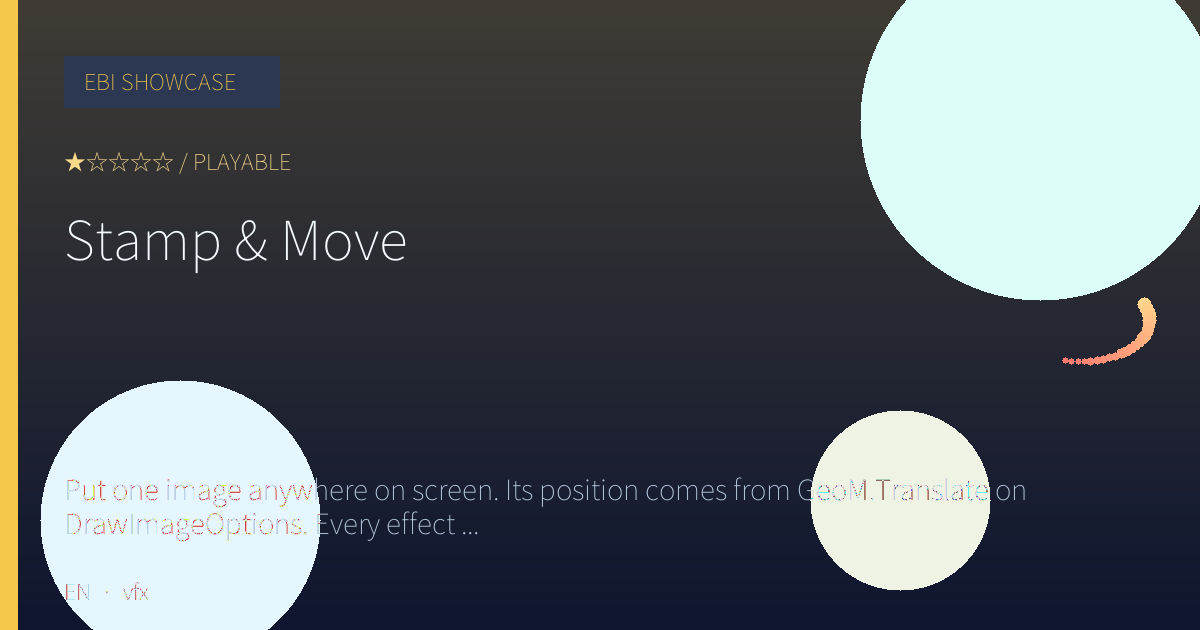
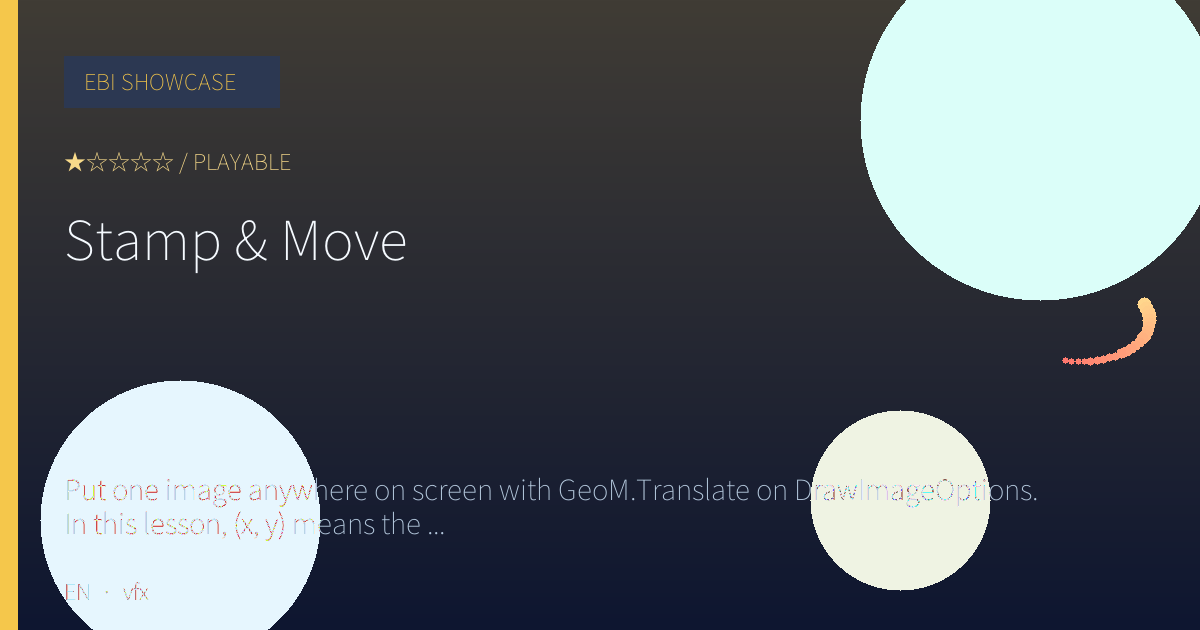
reflect feedback

Changed region(s): [[0.4008, 0.754, 0.8633, 0.8143], [0.0617, 0.8143, 0.37, 0.8746]]

diff --git a/web/en/tracks/visual-effects/vfx-particles/index.html b/web/en/tracks/visual-effects/vfx-particles/index.html
@@ -118,12 +118,17 @@
         </div>
         <pre><code>type particle struct{ x, y, vx, vy, life float64 }
 
-for i := range ps { // Update
-    ps[i].x += ps[i].vx
-    ps[i].y += ps[i].vy
-    ps[i].vy += gravity
-    ps[i].life--
-}</code></pre>
+next := ps[:0] // 生き残りを同じ配列へ詰め直す
+for _, p := range ps { // Update
+    p.x += p.vx
+    p.y += p.vy
+    p.vy += gravity
+    p.life--
+    if p.life &gt; 0 {
+        next = append(next, p)
+    }
+}
+ps = next // 寿命0の粒はここで退場</code></pre>
       </div>
 
       <div class="why-grid">

diff --git a/web/ja/tracks/visual-effects/vfx-particles/index.html b/web/ja/tracks/visual-effects/vfx-particles/index.html
@@ -118,12 +118,17 @@
         </div>
         <pre><code>type particle struct{ x, y, vx, vy, life float64 }
 
-for i := range ps { // Update
-    ps[i].x += ps[i].vx
-    ps[i].y += ps[i].vy
-    ps[i].vy += gravity
-    ps[i].life--
-}</code></pre>
+next := ps[:0] // 生き残りを同じ配列へ詰め直す
+for _, p := range ps { // Update
+    p.x += p.vx
+    p.y += p.vy
+    p.vy += gravity
+    p.life--
+    if p.life &gt; 0 {
+        next = append(next, p)
+    }
+}
+ps = next // 寿命0の粒はここで退場</code></pre>
       </div>
 
       <div class="why-grid">

diff --git a/web/en/tracks/visual-effects/vfx-stamp/index.html b/web/en/tracks/visual-effects/vfx-stamp/index.html
@@ -3,14 +3,14 @@
 <head>
   <meta charset="utf-8">
   <meta name="viewport" content="width=device-width,initial-scale=1,viewport-fit=cover">
-  <meta name="description" content="Put one image anywhere on screen. Its position comes from GeoM.Translate on DrawImageOptions. Every effect starts from this act of placing.">
+  <meta name="description" content="Put one image anywhere on screen with GeoM.Translate on DrawImageOptions. In this lesson, (x, y) means the image's top-left corner. The next">
   <title>Ebi Showcase – Stamp &amp; Move</title>
   <link rel="canonical" href="https://kumagi.github.io/EbiShowcase/en/tracks/visual-effects/vfx-stamp/">
     <!-- ogp:start -->
     <meta property="og:site_name" content="Ebi Showcase">
     <meta property="og:type" content="website">
     <meta property="og:title" content="Ebi Showcase – Stamp &amp; Move">
-    <meta property="og:description" content="Put one image anywhere on screen. Its position comes from GeoM.Translate on DrawImageOptions. Every effect starts from this act of placing.">
+    <meta property="og:description" content="Put one image anywhere on screen with GeoM.Translate on DrawImageOptions. In this lesson, (x, y) means the image's top-left corner. The next">
     <meta property="og:url" content="https://kumagi.github.io/EbiShowcase/en/tracks/visual-effects/vfx-stamp/">
     <meta property="og:image" content="https://kumagi.github.io/EbiShowcase/assets/og/en--tracks--visual-effects--vfx-stamp.png?v=20260713-font1">
     <meta property="og:image:width" content="1200">
@@ -20,7 +20,7 @@
     <meta property="og:locale:alternate" content="ja_JP">
     <meta name="twitter:card" content="summary_large_image">
     <meta name="twitter:title" content="Ebi Showcase – Stamp &amp; Move">
-    <meta name="twitter:description" content="Put one image anywhere on screen. Its position comes from GeoM.Translate on DrawImageOptions. Every effect starts from this act of placing.">
+    <meta name="twitter:description" content="Put one image anywhere on screen with GeoM.Translate on DrawImageOptions. In this lesson, (x, y) means the image's top-left corner. The next">
     <meta name="twitter:image" content="https://kumagi.github.io/EbiShowcase/assets/og/en--tracks--visual-effects--vfx-stamp.png?v=20260713-font1">
     <meta name="twitter:image:alt" content="Stamp &amp; Move">
     <!-- ogp:end -->
@@ -41,7 +41,7 @@
     <section class="overview-hero">
       <p class="eyebrow">★☆☆☆☆ / PLAYABLE</p>
       <h1>Stamp & Move</h1>
-      <p>Put one image anywhere on screen. Its position comes from GeoM.Translate on DrawImageOptions. Every effect starts from this act of placing.</p>
+      <p>Put one image anywhere on screen with GeoM.Translate on DrawImageOptions. In this lesson, (x, y) means the image's top-left corner. The next lesson shows how to place its center instead.</p>
       <div class="overview-concept"><small>What you learn here</small><strong>GeoM.Translate</strong></div>
     </section>
 
@@ -51,7 +51,7 @@
     <section class="play lesson-play" id="play">
       <div class="section-head">
         <div><p class="eyebrow">PLAYABLE / LIVE GO + MOUSE</p><h2>Place it where you tap</h2></div>
-        <p>Tap the board and the image jumps to that spot. The (x, y) you see is exactly what you pass to GeoM.Translate.</p>
+        <p>Tap the board and the image's top-left jumps to that coordinate. The apparent down-right offset is intentional, not a bug. Pass (x, y) directly here; the next lesson centers the image.</p>
       </div>
       <div class="game-shell">
         <div class="game-top"><span>● LIVE / GO + WASM</span><span>STEP 01</span></div>
@@ -101,7 +101,7 @@
         <div class="lab-copy">
           <p class="eyebrow">TRY IT / TRANSLATE</p>
           <h3 id="lab-title-vfx-stamp">Place it where you tap</h3>
-          <p>Tap the board and the image jumps to that spot. The (x, y) you see is exactly what you pass to GeoM.Translate.</p>
+          <p>Tap the board and the image's top-left jumps to that coordinate. The apparent down-right offset is intentional, not a bug. Pass (x, y) directly here; the next lesson centers the image.</p>
           <div class="lab-controls"><button type="button" class="lab-button lab-button-quiet" data-lab-reset>Reset</button></div>
         </div>
         <div class="lab-visual">

diff --git a/web/ja/tracks/visual-effects/vfx-stamp/index.html b/web/ja/tracks/visual-effects/vfx-stamp/index.html
@@ -3,14 +3,14 @@
 <head>
   <meta charset="utf-8">
   <meta name="viewport" content="width=device-width,initial-scale=1,viewport-fit=cover">
-  <meta name="description" content="画像を1枚、画面の好きな場所に置きます。位置を決めるのは DrawImageOptions の GeoM.Translate。エフェクトはすべて、この「置く」から始まります。 遊べるデモを動かし、Goで1つルールを足して確かめながら、自分のEbitengineゲームへ応用します。">
+  <meta name="description" content="画像を1枚、画面の好きな場所に置きます。位置を決めるのは DrawImageOptions の GeoM.Translate。この章の (x, y) は画像の左上です。中心に置く方法は次の章で学びます。 遊べるデモを動かし、Goで1つルールを足して確かめながら、自分のEbitengineゲームへ応用します。">
   <title>Ebi Showcase – スタンプと移動</title>
   <link rel="canonical" href="https://kumagi.github.io/EbiShowcase/ja/tracks/visual-effects/vfx-stamp/">
     <!-- ogp:start -->
     <meta property="og:site_name" content="Ebi Showcase">
     <meta property="og:type" content="website">
     <meta property="og:title" content="Ebi Showcase – スタンプと移動">
-    <meta property="og:description" content="画像を1枚、画面の好きな場所に置きます。位置を決めるのは DrawImageOptions の GeoM.Translate。エフェクトはすべて、この「置く」から始まります。 遊べるデモを動かし、Goで1つルールを足して確かめながら、自分のEbitengineゲームへ応用します。">
+    <meta property="og:description" content="画像を1枚、画面の好きな場所に置きます。位置を決めるのは DrawImageOptions の GeoM.Translate。この章の (x, y) は画像の左上です。中心に置く方法は次の章で学びます。 遊べるデモを動かし、Goで1つルールを足して確かめながら、自分のEbitengineゲームへ応用します。">
     <meta property="og:url" content="https://kumagi.github.io/EbiShowcase/ja/tracks/visual-effects/vfx-stamp/">
     <meta property="og:image" content="https://kumagi.github.io/EbiShowcase/assets/og/ja--tracks--visual-effects--vfx-stamp.png?v=20260713-font1">
     <meta property="og:image:width" content="1200">
@@ -20,7 +20,7 @@
     <meta property="og:locale:alternate" content="en_US">
     <meta name="twitter:card" content="summary_large_image">
     <meta name="twitter:title" content="Ebi Showcase – スタンプと移動">
-    <meta name="twitter:description" content="画像を1枚、画面の好きな場所に置きます。位置を決めるのは DrawImageOptions の GeoM.Translate。エフェクトはすべて、この「置く」から始まります。 遊べるデモを動かし、Goで1つルールを足して確かめながら、自分のEbitengineゲームへ応用します。">
+    <meta name="twitter:description" content="画像を1枚、画面の好きな場所に置きます。位置を決めるのは DrawImageOptions の GeoM.Translate。この章の (x, y) は画像の左上です。中心に置く方法は次の章で学びます。 遊べるデモを動かし、Goで1つルールを足して確かめながら、自分のEbitengineゲームへ応用します。">
     <meta name="twitter:image" content="https://kumagi.github.io/EbiShowcase/assets/og/ja--tracks--visual-effects--vfx-stamp.png?v=20260713-font1">
     <meta name="twitter:image:alt" content="スタンプと移動">
     <!-- ogp:end -->
@@ -41,7 +41,7 @@
     <section class="overview-hero">
       <p class="eyebrow">★☆☆☆☆ / PLAYABLE</p>
       <h1>スタンプと移動</h1>
-      <p>画像を1枚、画面の好きな場所に置きます。位置を決めるのは DrawImageOptions の GeoM.Translate。エフェクトはすべて、この「置く」から始まります。</p>
+      <p>画像を1枚、画面の好きな場所に置きます。位置を決めるのは DrawImageOptions の GeoM.Translate。この章の (x, y) は画像の左上です。中心に置く方法は次の章で学びます。</p>
       <div class="overview-concept"><small>このステップで学ぶこと</small><strong>GeoM.Translate</strong></div>
     </section>
 
@@ -51,7 +51,7 @@
     <section class="play lesson-play" id="play">
       <div class="section-head">
         <div><p class="eyebrow">PLAYABLE / LIVE GO + マウス</p><h2>タップした場所に置こう</h2></div>
-        <p>盤面をタップすると、その座標へ絵が飛びます。表示される (x, y) が、そのまま GeoM.Translate に渡す数字です。</p>
+        <p>盤面をタップすると、その座標へ絵の左上が移ります。少し右下へずれて見えるのはバグではありません。表示される (x, y) をそのまま GeoM.Translate に渡し、次の章で中心を合わせます。</p>
       </div>
       <div class="game-shell">
         <div class="game-top"><span>● LIVE / GO + WASM</span><span>STEP 01</span></div>
@@ -101,7 +101,7 @@
         <div class="lab-copy">
           <p class="eyebrow">TRY IT / TRANSLATE</p>
           <h3 id="lab-title-vfx-stamp">タップした場所に置こう</h3>
-          <p>盤面をタップすると、その座標へ絵が飛びます。表示される (x, y) が、そのまま GeoM.Translate に渡す数字です。</p>
+          <p>盤面をタップすると、その座標へ絵の左上が移ります。少し右下へずれて見えるのはバグではありません。表示される (x, y) をそのまま GeoM.Translate に渡し、次の章で中心を合わせます。</p>
           <div class="lab-controls"><button type="button" class="lab-button lab-button-quiet" data-lab-reset>リセット</button></div>
         </div>
         <div class="lab-visual">

diff --git a/web/en/tracks/visual-effects/vfx-alpha/index.html b/web/en/tracks/visual-effects/vfx-alpha/index.html
@@ -113,7 +113,10 @@
           <h3>The trail</h3>
           <p>Loop the position history and lower alpha for older copies.</p>
         </div>
-        <pre><code>for i, p := range trail {
+        <pre><code>if len(trail) == 0 {
+    return // 0個なら割り算も描画もしない
+}
+for i, p := range trail {
     op := &amp;ebiten.DrawImageOptions{}
     op.GeoM.Translate(p.x, p.y)
     a := float32(i+1) / float32(len(trail))

diff --git a/web/ja/tracks/visual-effects/vfx-alpha/index.html b/web/ja/tracks/visual-effects/vfx-alpha/index.html
@@ -113,7 +113,10 @@
           <h3>残像トレイル</h3>
           <p>位置の履歴をループで描き、古いものほどアルファを下げるだけです。</p>
         </div>
-        <pre><code>for i, p := range trail {
+        <pre><code>if len(trail) == 0 {
+    return // 0個なら割り算も描画もしない
+}
+for i, p := range trail {
     op := &amp;ebiten.DrawImageOptions{}
     op.GeoM.Translate(p.x, p.y)
     a := float32(i+1) / float32(len(trail))

diff --git a/web/en/games/platformer/index.html b/web/en/games/platformer/index.html
@@ -117,7 +117,7 @@
           <p class="eyebrow">IN THE REAL GAME</p>
           <h3>X first, then Y —<br>order is everything</h3>
           <p>Mixing both axes in one pass causes corner-clipping bugs where the player can pass through the edge of a platform. Separate passes make the behavior predictable.</p>
-          <p>Reset <code>onGround = false</code> every frame, then set it <code>true</code> only when a Y collision lands you on a platform — do not keep yesterday's ground memory.</p>
+          <p>After vertical movement in each Update, reset <code>onGround = false</code>, then immediately rebuild the answer from Y collisions. Jump input has already used the previous contact result before this reset. If the player is still standing, collision resolution restores <code>true</code> in the same Update, so there is no one-step gap where a grounded player becomes airborne.</p>
           <p><code>math.Mod(a, 320)</code> is remainder (safe for negatives). It folds camera scroll into 0..320 so a 320px parallax strip can tile forever.</p>
         </div>
         <pre><code><i>// move horizontally and resolve</i>
@@ -134,7 +134,7 @@ g.player.x += g.vx
 }
 <i>// move vertically and resolve</i>
 g.player.y += g.vy
-g.onGround = false <i>// clear each frame</i>
+g.onGround = false <i>// rebuild contact for this Update</i>
 <span>for</span> _, p := range g.platforms {
     <span>if</span> overlap(g.player, p) {
         <span>if</span> g.vy > 0 { <i>// falling → land</i>

diff --git a/web/en/games/tap-target/index.html b/web/en/games/tap-target/index.html
@@ -36,7 +36,7 @@
       <h1>Tap the Target</h1>
       <p>A tiny game where you tap glowing circles as they appear. This is where you learn how a game runs—and how taps become numbers on screen.</p>
       <div class="overview-concept"><small>NEW CONCEPT</small><strong>Game loop and input</strong></div>
-      <a class="cta" href="#play">PLAY BEFORE THE EXPLANATION <b>↓</b></a>
+      <a class="cta" href="#play">PLAY THE GAME FIRST <b>↓</b></a>
     </section>
 
 
@@ -52,7 +52,7 @@
 
 
 <section class="play lesson-play" id="play">
-      <div class="section-head"><div><p class="eyebrow">PLAY FIRST</p><h2>The explanation can wait.<br>Press the glowing target.</h2></div><p>Use a mouse click or touch the screen. A hit adds one point and moves the target somewhere else. See how many hits you can land in 30 seconds.</p></div>
+      <div class="section-head"><div><p class="eyebrow">PLAY FIRST</p><h2>Play the game first,<br>then discover how it works.</h2></div><p>Use a mouse click or touch the screen. Pressing the glowing target adds one point and moves it somewhere else. After a 30-second try, we will take the rule apart together below.</p></div>
       <div class="game-shell"><div class="game-top"><span>● LIVE / GO + WASM</span><span>LEVEL 01</span></div><div id="game-wrap"><iframe class="lesson-game-frame" title="Tap the Target" src="../../../play/tap-target/" allow="autoplay; fullscreen"></iframe></div></div>
     </section>
 

diff --git a/web/ja/games/platformer/index.html b/web/ja/games/platformer/index.html
@@ -117,7 +117,7 @@
           <p class="eyebrow">IN THE REAL GAME</p>
           <h3>X → 衝突 → Y → 衝突<br>の順番が大切</h3>
           <p>X方向の移動と衝突解決を終えてから、Y方向を処理します。混ぜると「壁の角でコーナーカットできてしまう」バグが起きます。</p>
-          <p><code>onGround</code> は毎フレーム <code>false</code> に戻し、Y衝突で足場に乗れたときだけ <code>true</code> にします。「昨日乗っていた」記憶を残さないのがコツです。</p>
+          <p><code>onGround</code> は各 Update のY移動後に <code>false</code> へ戻し、その直後のY衝突で足場に乗れたときだけ <code>true</code> にします。ジャンプ入力はこのリセットより前に、前回の接地結果を使って判定済みです。着地中なら同じ Update の衝突処理ですぐ <code>true</code> に戻るため、「1回だけ空中扱いになる」隙間は生まれません。</p>
           <p><code>math.Mod(a, 320)</code> は余り（負数にも安全な版）。カメラが進んでも 0〜320 に折り返すので、幅320の遠景を繰り返し並べられます。</p>
         </div>
         <pre><code><i>// X方向に動かして衝突を解決</i>
@@ -134,7 +134,7 @@ g.player.x += g.vx
 }
 <i>// Y方向に動かして衝突を解決</i>
 g.player.y += g.vy
-g.onGround = false <i>// 毎フレームいったん空中へ</i>
+g.onGround = false <i>// このUpdateの接地結果を作り直す</i>
 <span>for</span> _, p := range g.platforms {
     <span>if</span> overlap(g.player, p) {
         <span>if</span> g.vy > 0 { <i>// 落下中なら接地</i>

diff --git a/web/ja/games/tap-target/index.html b/web/ja/games/tap-target/index.html
@@ -36,7 +36,7 @@
       <h1>光る丸をタッチ</h1>
       <p>画面に出た丸をすばやくタッチする、いちばん小さなゲームです。ここから「ゲームはどう動くか」と「押した場所はどう数えるか」をいっしょに学びます。</p>
       <div class="overview-concept"><small>このゲームで学ぶこと</small><strong>ゲームループと入力</strong></div>
-      <a class="cta" href="#play">説明より先に遊ぶ <b>↓</b></a>
+      <a class="cta" href="#play">まずゲームを遊んでみる <b>↓</b></a>
     </section>
 
 
@@ -52,7 +52,7 @@
 
 
 <section class="play lesson-play" id="play">
-      <div class="section-head"><div><p class="eyebrow">PLAY FIRST / まず遊ぶ</p><h2>説明はあとで大丈夫。<br>光る丸を押してみよう。</h2></div><p>クリックでも画面タッチでも遊べます。丸を押すと1点入り、丸は別の場所へ移動します。30秒で何回当てられるか挑戦してみましょう。</p></div>
+      <div class="section-head"><div><p class="eyebrow">PLAY FIRST / まず遊ぶ</p><h2>まずゲームを遊んで、<br>そのあと仕組みを見つけよう。</h2></div><p>クリックでも画面タッチでも遊べます。光る丸を押すと1点入り、丸は別の場所へ移動します。30秒で何回当てられるか試したら、下で「なぜ動くのか」を一緒にほどきます。</p></div>
       <div class="game-shell"><div class="game-top"><span>● LIVE / GO + WASM</span><span>LEVEL 01</span></div><div id="game-wrap"><iframe class="lesson-game-frame" title="光る丸をタッチ" src="../../../play/tap-target/" allow="autoplay; fullscreen"></iframe></div></div>
     </section>
 

diff --git a/web/en/games/catch-stars/index.html b/web/en/games/catch-stars/index.html
@@ -36,7 +36,7 @@
       <h1>Catch the Stars</h1>
       <p>Catch falling stars with a basket. Movement, falling objects, and overlap checks — this is the step where “game objects” multiply. <strong>Drop three stars and it's game over</strong>, so don't let too many slip past.</p>
       <div class="overview-concept"><small>NEW CONCEPT</small><strong>Movement and collision</strong></div>
-      <p class="cast-note">On screen you see original hero <strong>Ebi Tenjiroh</strong>; hits still use simple shapes. Movement math still lives in the same <a href="../tap-target/#basics">LEVEL 01 state boundary</a>.</p>
+      <p class="cast-note">On screen you see original hero <strong>Ebi Tenjiroh</strong>; hits still use simple shapes. As in the <a href="../tap-target/#basics">LEVEL 01 state boundary</a>, only Update mutates positions and score. Draw projects those values and never changes game state.</p>
     </section>
 
 <section class="play lesson-play" id="play">

diff --git a/web/en/games/pong/index.html b/web/en/games/pong/index.html
@@ -100,7 +100,7 @@
       <div class="formula">
         <p class="eyebrow">THE BOUNCE RULE</p>
         <div class="formula-lines"><code>wall: vx = -vx</code><span>paddle</span><code>vy = -vy (optionally a bit faster)</code></div>
-        <p>Flipping the sign alone still leaves the ball a little inside the surface. On the very next frame it would still count as "touching," causing a bounce loop that flips back and forth. So the code moves the ball just outside the surface before flipping the sign (for example, <code>g.ballY = 646</code> pushes it above the paddle, and <code>math.Max/Min</code> keeps it inside the walls). That way the ball bounces exactly once instead of sticking inside the surface.</p>
+        <p>Flipping the sign alone can leave the ball slightly inside a surface, so the next Update still sees a hit and flips it again. For a side wall, <code>g.ballX = math.Max(14, math.Min(screenWidth-14, g.ballX))</code> first clamps the center back inside the wall. For the lower paddle, <code>g.ballY = 646</code> first pushes the ball just above it. The expressions differ, but the rule is the same: separate the shapes, then reverse velocity, so one contact produces one bounce.</p>
       </div>
 
       <div class="code-lesson">